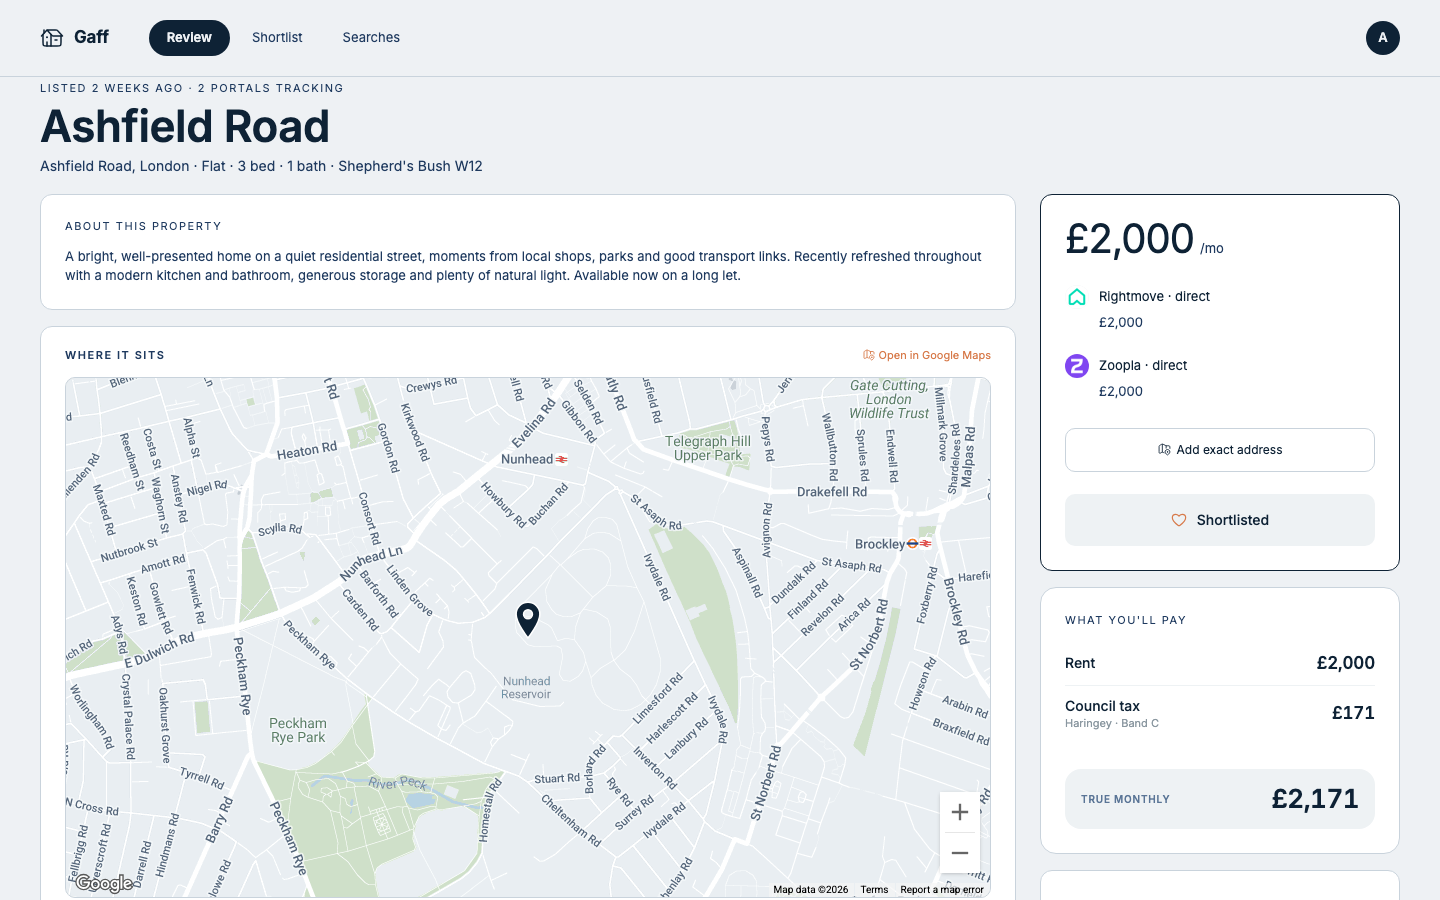
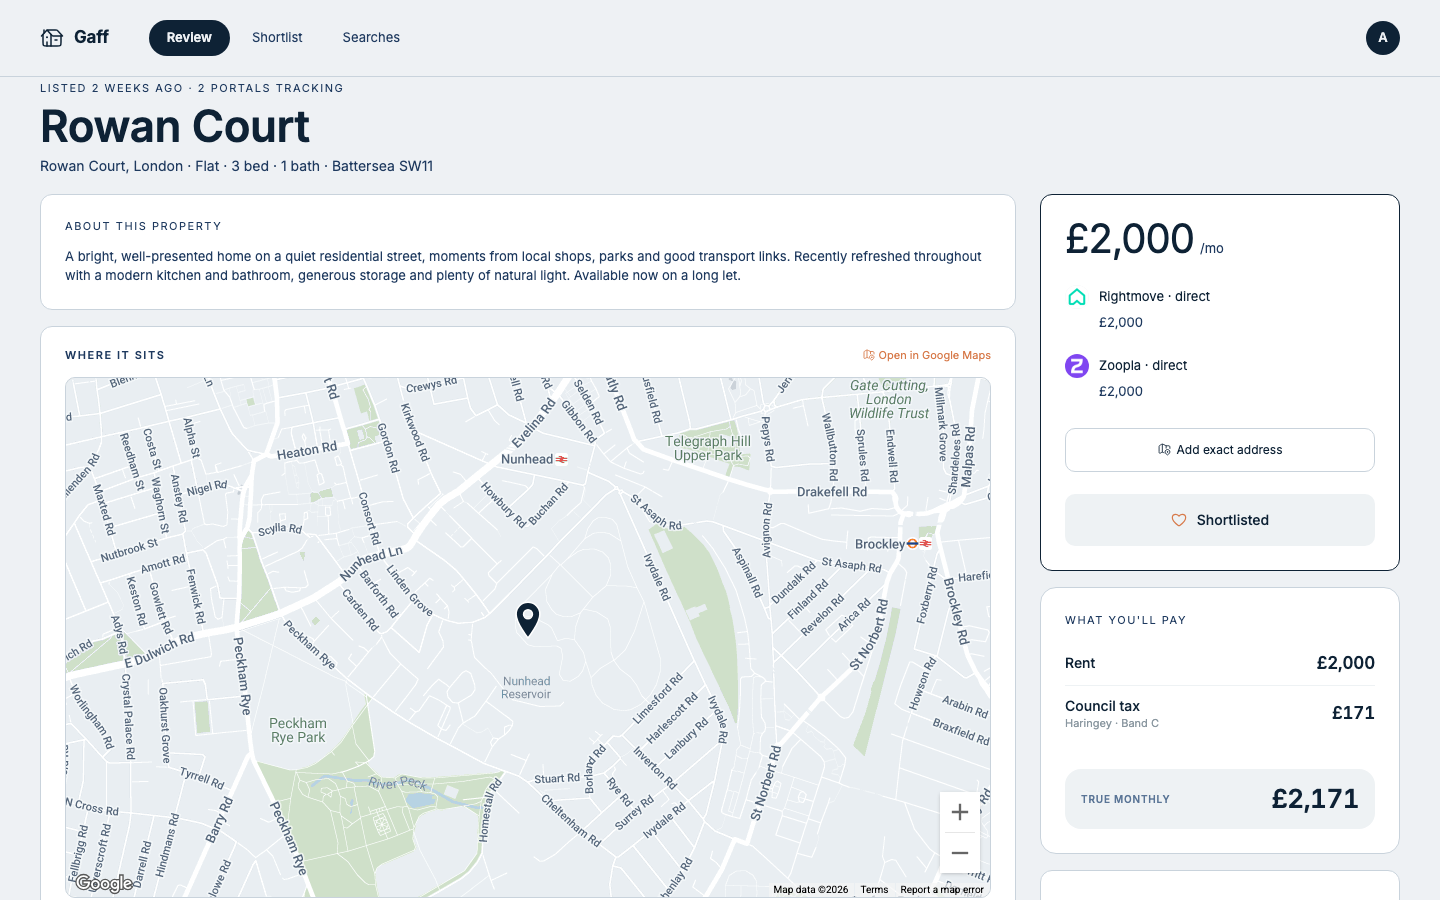
docs: tighten copy, drop council borough from screenshots
Rewrite the README in a plainer voice (no em dashes), neutralise the
council-tax authority in the compare/detail shots, and reword the docs.

Changed region(s): [[0.0312, 0.1244, 0.3125, 0.1867]]

diff --git a/README.md b/README.md
@@ -2,61 +2,60 @@
 
 # 🏡 Gaff
 
-**A collaborative rental-hunting tool for two people sharing one search.**
+**Collaborative UK rental hunting for two people sharing one search.**
 
-Gaff scrapes UK letting portals, de-duplicates the same flat across them, enriches every
-listing with the facts that actually decide a tenancy — commute, council tax, broadband,
-crime, energy rating — and turns the hunt into a shared swipe-and-shortlist game between
-two people. When you both keep the same place, it surfaces as a match.
+Gaff scrapes the big letting portals, spots the same flat listed across all of them, and adds
+the facts that actually decide a tenancy: commute, council tax, broadband, energy rating. Then
+two people swipe through the results and build a shared shortlist. When you both keep the same
+place, it becomes a match.
 
-<sub>TanStack Start · Cloudflare Workers · Neon Postgres · Trigger.dev · Claude</sub>
+<sub>TanStack Start · Cloudflare Workers · Neon · Trigger.dev</sub>
 
 </div>
 
 > [!NOTE]
-> **Archived personal project.** Gaff was built for one real two-person house hunt. The
-> hosted instance and its cloud infrastructure have been retired — this repo is the
-> source, kept public as a reference. Everything is parameterised so you can stand up your
-> own instance from scratch (see **[Deploy](#-deploy-your-own)**).
+> Archived personal project. Gaff was built for one real two-person house hunt. The hosted
+> instance and its infrastructure have been retired, so this repo is just the source, kept
+> public as a reference. It's parameterised so you can run your own (see [Deploy](#-deploy-your-own)).
 
 <br />
 
-![The review deck — swipe through listings one at a time](docs/screenshots/01-review.png)
+![The review deck](docs/screenshots/01-review.png)
 
 ## What it does
 
-House-hunting as a couple means two browsers, three portals, the same flat listed three
-times at three prices, and no shared memory of "did we both like that one?". Gaff replaces
-that with a single queue:
+House-hunting as a couple usually means two browsers, three portals, the same flat listed three
+times at three prices, and no shared memory of "did we both like that one?". Gaff turns all of
+that into a single queue.
 
-- **One feed across portals.** Rightmove, Zoopla and OpenRent are scraped on a schedule and
-  the same property — listed and priced differently on each — is clustered into one card.
-- **Decisions, not tabs.** Review listings one at a time with keyboard shortcuts
-  (keep / skip / defer). A skip is personal; a *mutual* keep becomes a match.
-- **The facts that matter, pre-loaded.** Each listing is enriched with commute times to your
-  stations, council-tax band, FTTP broadband availability, EPC rating, nearby amenities and
-  an AI read of what stands out and what to watch for.
-- **A shared shortlist.** Matches flow into a kanban pipeline — *both kept → in conversation
-  → viewing booked → offer placed* — so two people track one hunt without a spreadsheet.
-- **A daily digest.** When a search finishes scraping, each person gets an email rounding up
-  what's new and waiting to review.
+- **One feed across portals.** Rightmove, Zoopla and OpenRent are scraped on a schedule. The same
+  property, listed and priced differently on each, is grouped into one card.
+- **Decisions, not tabs.** Review one listing at a time with keyboard shortcuts (keep, skip,
+  defer). A skip is yours alone. A keep that you both make becomes a match.
+- **The facts up front.** Every listing carries commute times to your stations, council tax band,
+  broadband availability, energy rating, nearby amenities, and a short written read of what stands
+  out and what to watch for.
+- **A shared shortlist.** Matches flow into a pipeline: both kept, in conversation, viewing booked,
+  offer placed. Two people track one hunt without a spreadsheet.
+- **A daily digest.** When a search finishes scraping, each of you gets an email of what's new and
+  waiting to review.
 
 ## Screens
 
 |  |  |
 |--|--|
-| **Review** — swipe the queue, filter by beds/price/commute/EPC | **Shortlist** — kanban pipeline of mutual matches |
+| **Review** the queue, filter by beds, price, commute, EPC | **Shortlist** pipeline of mutual matches |
 | ![](docs/screenshots/01-review.png) | ![](docs/screenshots/02-shortlist.png) |
-| **Searches** — per-area searches on independent schedules | **Compare** — two listings side by side, true monthly cost |
+| **Searches** on independent schedules | **Compare** two listings, true monthly cost |
 | ![](docs/screenshots/03-searches.png) | ![](docs/screenshots/08-compare.png) |
 
 ### Listing detail
 
-Every clustered property opens to a full dossier — gallery, cross-portal price tracking, a
-map with transit times, and the public records (EPC, broadband, council tax, amenities)
-pulled in by the enrichment pipeline.
+Every clustered property opens to a full dossier: photo gallery, cross-portal price tracking, a
+map with transit times, and the public records (EPC, broadband, council tax, amenities) pulled in
+by the enrichment pipeline.
 
-| Photo gallery | Cross-portal price, council tax & map |
+| Photo gallery | Price, council tax & map |
 |--|--|
 | ![](docs/screenshots/04-listing-hero.png) | ![](docs/screenshots/05-listing-mid.png) |
 
@@ -67,10 +66,10 @@ flowchart LR
     S[Searches] -->|scheduled| SC[Scrape<br/>Rightmove · Zoopla · OpenRent]
     SC --> CL[Cluster and de-dupe<br/>across portals]
     CL --> EN[Enrich]
-    EN --> AI[Claude: highlights and watch-outs]
+    EN --> AIN[Claude: highlights and watch-outs]
     EN --> GE[Commute · transit · amenities]
     EN --> PR[EPC · broadband · council tax]
-    AI --> Q[Review queue]
+    AIN --> Q[Review queue]
     GE --> Q
     PR --> Q
     Q -->|keep / skip / defer| M{Both kept?}
@@ -78,55 +77,41 @@ flowchart LR
     Q -->|new since last run| DG[Daily digest email]
 ```
 
-Scraping, clustering and enrichment run as [Trigger.dev](https://trigger.dev) tasks; the web
-app reads the results. The review queue and the digest share one selection module so the
-email can never promise listings the queue would filter out.
+Scraping, clustering and enrichment run as [Trigger.dev](https://trigger.dev) jobs. The web app
+just reads the results. The review queue and the digest share one selection module, so the email
+can never promise listings the queue would then filter out.
 
-## Architecture
+## Stack
 
-| Layer | Choice |
-|------|--------|
-| Web framework | [TanStack Start](https://tanstack.com/start) (React 19, Router, Query) |
-| Runtime | Cloudflare Workers (SSR + bindings) |
-| Database | [Neon](https://neon.tech) Postgres + [Drizzle ORM](https://orm.drizzle.team) |
-| Background jobs | [Trigger.dev](https://trigger.dev) (scrape · cluster · enrich · email) |
-| Auth | [Better Auth](https://better-auth.com) behind Cloudflare Access (Zero Trust) |
-| Object storage | Cloudflare R2 (cached, right-sized listing photos) |
-| AI enrichment | Anthropic Claude |
-| Email | [Resend](https://resend.com) + [React Email](https://react.email) |
-| Secrets | [Doppler](https://doppler.com) (runtime injection, nothing on disk) |
-| Infra as code | [Pulumi](https://pulumi.com) (KV · R2 · DNS · Access) |
-| Tooling | Bun · Biome · Vitest · `t-stack` |
+TanStack Start (React 19) on Cloudflare Workers, Neon Postgres with Drizzle, Trigger.dev for
+background jobs, Better Auth behind Cloudflare Access, R2 for cached photos, Claude for the
+written summaries, Resend + React Email for mail, Doppler for secrets, Pulumi for infra. Bun,
+Biome and Vitest for tooling.
 
 ## Develop
 
 ```sh
 bun install
-
-# Configure local secrets (Doppler project `gaff`, config `dev`)
-bash scripts/setup-doppler.sh
-
-bun run dev          # web + Trigger.dev dev server (mprocs)
-bun run db:migrate   # apply migrations to your Neon branch
+bash scripts/setup-doppler.sh   # Doppler project `gaff`, config `dev`
+bun run dev                     # web + Trigger.dev dev server
+bun run db:migrate              # migrate your Neon branch
 ```
 
-See **[`.env.example`](.env.example)** for every variable the app reads.
+See [`.env.example`](.env.example) for every variable the app reads.
 
 ## 🚀 Deploy your own
 
-Gaff runs on free tiers of Cloudflare, Neon and Trigger.dev. Standing up a fresh instance
-means creating a handful of accounts, dropping their keys into Doppler, provisioning the
-Cloudflare resources with Pulumi, and pushing.
+Gaff runs on free tiers of Cloudflare, Neon and Trigger.dev. Standing up a fresh instance means
+creating a few accounts, dropping their keys into Doppler, provisioning the Cloudflare resources
+with Pulumi, and pushing.
 
-**→ Full walkthrough: [`docs/DEPLOY.md`](docs/DEPLOY.md)**
-
-The short version:
+Full walkthrough: [`docs/DEPLOY.md`](docs/DEPLOY.md). The short version:
 
 ```sh
 # 1. Accounts: Cloudflare, Neon, Trigger.dev, Doppler, Anthropic, Google Maps,
-#    Zyte, EPC Open Data, Resend (see docs/DEPLOY.md for what each is for)
-# 2. Put their keys in Doppler (gaff/dev + gaff/prd) — checklist in .env.example
-# 3. Set your own values: domain, org and IDs (see "Make it yours" in DEPLOY.md)
+#    Zyte, EPC Open Data, Resend (docs/DEPLOY.md says what each is for)
+# 2. Put their keys in Doppler (gaff/dev + gaff/prd); checklist in .env.example
+# 3. Set your own domain, org and IDs ("Make it yours" in DEPLOY.md)
 t-stack provision      # Cloudflare KV, R2, DNS, Access via Pulumi
 bun run db:migrate:prod
 bun run deploy         # build + wrangler deploy
@@ -134,4 +119,4 @@ bun run deploy         # build + wrangler deploy
 
 ## License
 
-[MIT](LICENSE) — do whatever you like with it.
+[MIT](LICENSE).

diff --git a/docs/DEPLOY.md b/docs/DEPLOY.md
@@ -2,7 +2,7 @@
 
 Gaff is a Cloudflare Worker (TanStack Start) backed by Neon Postgres, with background work
 on Trigger.dev and infrastructure managed by Pulumi. Secrets live in Doppler and are
-injected at runtime — nothing sensitive is committed. This guide takes you from a clone to a
+injected at runtime - nothing sensitive is committed. This guide takes you from a clone to a
 running production instance.
 
 It assumes the project was scaffolded with [`t-stack`](https://github.com/<org>/t-stack);
@@ -22,7 +22,7 @@ All have a usable free tier.
 | [Trigger.dev](https://trigger.dev) | Scrape / cluster / enrich / email jobs | `TRIGGER_SECRET_KEY`, project ref |
 | [Doppler](https://doppler.com) | Secret storage + runtime injection | a `gaff` project with `dev` + `prd` configs |
 | [Pulumi](https://pulumi.com) | Cloudflare infra as code | `PULUMI_ACCESS_TOKEN` |
-| [Anthropic](https://console.anthropic.com) | AI listing enrichment | `ANTHROPIC_API_KEY` |
+| [Anthropic](https://console.anthropic.com) | Claude listing enrichment | `ANTHROPIC_API_KEY` |
 | [Zyte](https://zyte.com) | Headless scraping (Zoopla) | `ZYTE_API_KEY` |
 | [Google Maps Platform](https://console.cloud.google.com/google/maps-apis) | Geocode, Places, Routes | `GOOGLE_MAPS_API_KEY` (+ optional server key) |
 | [EPC Open Data](https://epc.opendatacommunities.org) | Energy ratings | `EPC_OPENDATA_TOKEN` (`email:token`) |
@@ -45,15 +45,15 @@ A few identifiers are this-instance specific. Replace them before provisioning:
 | Doppler `gaff/*` | `TRIGGER_PROJECT_REF` | your Trigger.dev project ref (`proj_…`) |
 | Doppler `gaff/prd` | `EMAIL_FROM` | a Resend-verified sender, e.g. `Gaff <[email redacted]>` |
 
-The KV namespace ID and R2 bucket name in `wrangler.jsonc` are placeholders — Pulumi fills
+The KV namespace ID and R2 bucket name in `wrangler.jsonc` are placeholders - Pulumi fills
 them in on first provision. `.t-stack/state.json` is regenerated by provisioning.
 
 ## 3. Secrets
 
 Put every key from **[`.env.example`](../.env.example)** into Doppler:
 
-- `gaff/dev` — your local development values (a Neon dev branch, test keys).
-- `gaff/prd` — production values. Also add `PULUMI_ACCESS_TOKEN` here (used by provisioning,
+- `gaff/dev` - your local development values (a Neon dev branch, test keys).
+- `gaff/prd` - production values. Also add `PULUMI_ACCESS_TOKEN` here (used by provisioning,
   stripped before the Worker secret sync).
 
 The app validates the full set on first request (`src/lib/env.ts`), so a missing **required**
@@ -77,7 +77,7 @@ bun run db:studio                      # browse the DB
 
 `scripts/neon-env.ts` gives each git branch its own Neon branch, so migrations and test data
 stay isolated. `bun run dev:prod` runs the local web server against the **prod** Doppler
-config and database — handy for debugging, gated to localhost in dev only.
+config and database - handy for debugging, gated to localhost in dev only.
 
 ## 5. Provision infrastructure
 
@@ -87,8 +87,8 @@ t-stack provision
 
 This runs the Pulumi program in `infra/cloudflare/`, which creates:
 
-- a **KV namespace** (`KV` binding — Access JWKS cache),
-- an **R2 bucket** (`BUCKET` binding — cached listing photos) plus a bucket-scoped S3 API
+- a **KV namespace** (`KV` binding - Access JWKS cache),
+- an **R2 bucket** (`BUCKET` binding - cached listing photos) plus a bucket-scoped S3 API
   token for the Trigger.dev workers, synced back into `gaff/prd` as the `R2_*` secrets,
 - a **Cloudflare Access** application gating the whole domain to your `accessEmailDomain` /
   `guestEmails`, plus a public **bypass** on `/clusters/*` so listing photos render in email,
@@ -104,7 +104,7 @@ bun run db:migrate:prod                # apply migrations to prod Postgres
 bun run deploy                         # vite build + wrangler deploy
 ```
 
-…or just push to `main` — `.github/workflows/deploy.yml` provisions infra, syncs Worker
+…or just push to `main` - `.github/workflows/deploy.yml` provisions infra, syncs Worker
 secrets from Doppler, applies migrations, and deploys, in that order.
 
 Deploy the Trigger.dev tasks too (CI does not): from the Trigger.dev project,
@@ -120,9 +120,9 @@ Deploy the Trigger.dev tasks too (CI does not): from the Trigger.dev project,
 
 ## Troubleshooting
 
-- **Every page 500s after deploy** — usually a required secret missing from the Worker.
+- **Every page 500s after deploy** - usually a required secret missing from the Worker.
   Check `doppler secrets --project gaff --config prd --only-names` against `src/lib/env.ts`.
-- **Pulumi 403 during provision** — the Cloudflare token is missing a scope (Account API
+- **Pulumi 403 during provision** - the Cloudflare token is missing a scope (Account API
   Tokens, Zero Trust Access, or Zone Settings). Widen it and re-run.
-- **Photos don't load in emails** — the `/clusters/*` Access bypass app didn't apply; check
+- **Photos don't load in emails** - the `/clusters/*` Access bypass app didn't apply; check
   the Access dashboard for the `…-photos` application.